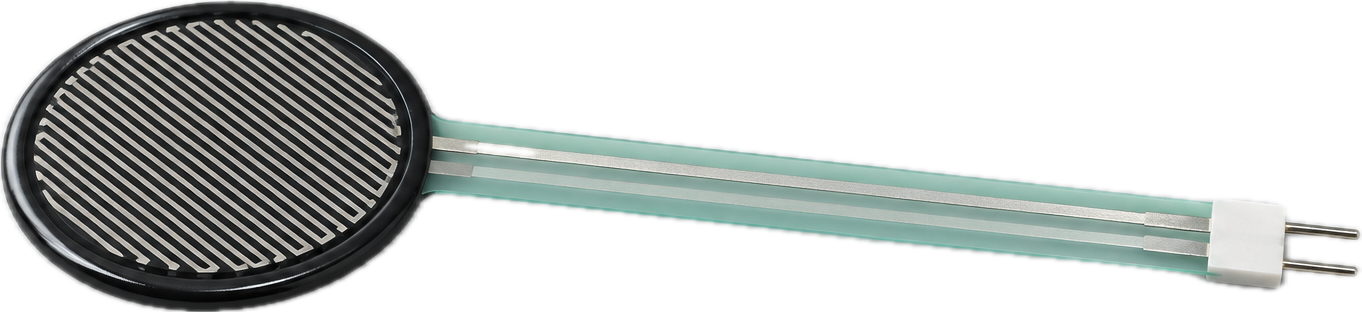
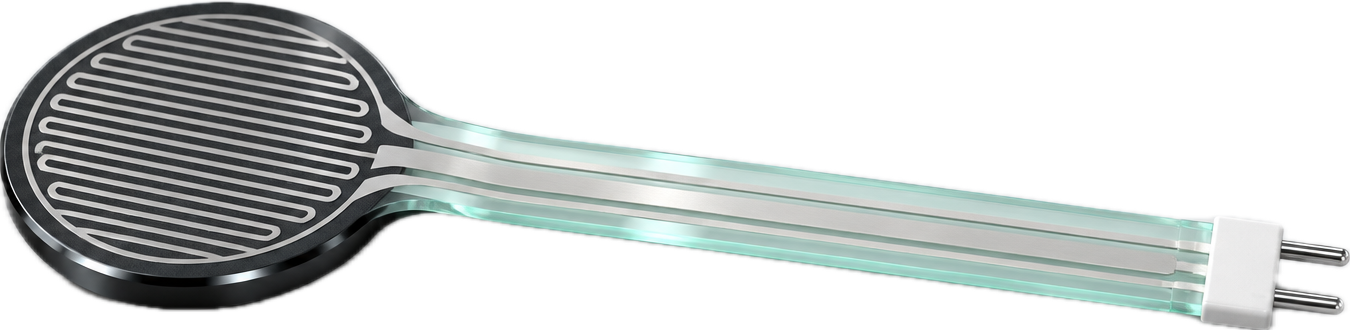
FSR: high-end 3D render (thick pad, glass tail, chrome pins), used everywhere

diff --git a/src/shoes/sketch-sensor.js b/src/shoes/sketch-sensor.js
@@ -12,12 +12,12 @@ export const sketchSensor = {
 
   // About the render image, measured from it (only change these for a new image):
   render: {
-    image: fsrRender,
-    padWidth: 0.336, // the round pad's width, as a share of the image's width
-    padCentre: [0.17, 0.5], // where the pad's centre is in the image (share of width, height)
-    viewFlatten: 0.67, // how squashed the round pad looks in the image (1 = seen from straight above)
-    slope: 3.9, // degrees the tail runs downhill to the right in the image
-    tailWidth: 0.24, // the tail's width for the pocket channel, as a share of the pad's width
+    image: fsrRender, // the high-end 3D render (the earlier one is src/assets/fsr-render-v1.png)
+    padWidth: 0.32, // the round pad's width, as a share of the image's width
+    padCentre: [0.161, 0.47], // where the pad's centre is in the image (share of width, height)
+    viewFlatten: 0.66, // how squashed the round pad looks in the image (1 = seen from straight above)
+    slope: 4.9, // degrees the tail runs downhill to the right in the image
+    tailWidth: 0.3, // the tail's width (it's thicker now) for the pocket channel, as a share of the pad's width
   },
 
   along: 0.5, // where it sits from toe (0) to heel (1) — the middle of the sole

diff --git a/docs/changelog.md b/docs/changelog.md
@@ -2,6 +2,16 @@
 
 One short entry per work session, newest first.
 
+## 2026-11-10: FSR as a high-end 3D render
+- **A new FSR render** in the style of your references (studio product renders, exploded electronics):
+  - a **thick, bevelled glossy black pad** with crisp, high-definition silver electrode lines and a fine texture
+  - a **clear, glass-like tail** with real thickness, light refraction and silver traces inside
+  - a white tab with **chrome pins**
+- **Used everywhere:** in the shoe's pocket, while lifting out, and big in the center of the next scene.
+- The previous render is kept as `src/assets/fsr-render-v1.png`.
+- **AI image:** Figma AI (gpt-image-2.5-flare, Graft team, 1 credit, 1536×864). Prompt: "Ultra high-end 3D product render, Octane/KeyShot quality, of a single round force-sensing resistor (FSR) lying flat… thick circular sensor pad (about 3mm) with a softly bevelled glossy black edge… crisp, high-definition interdigitated electrode lines in polished silver on matte black, with a fine tactile micro-texture… long flexible tail of thick, polished, crystal-clear transparent film with a faint mint tint, real thickness and clean light refractions… two brushed-and-polished silver conductive traces… small matte white connector tab with two shiny chrome pins… pale light-gray seamless studio background, soft diffused overhead lighting… camera about 20° above, pad on the LEFT, tail to the RIGHT… no text, no logo." Cut out with Apple's subject lift.
+- The stall check (`npm run debug:stalls`) still shows no slow frames.
+
 ## 2026-11-10: fixed the first-scroll stall
 **The bug:** on the first scroll down, after the first label, nothing seemed to happen for a while, then the page jumped to the big FSR.
 

diff --git a/docs/architecture.md b/docs/architecture.md
@@ -95,7 +95,8 @@ AI was used **once, while building**, to create the shoe images:
 | Photo shoe (`shoe-photo.png`) | Figma AI image tool (model: gpt-image-2.5-flare), in the Figma file "Magic Shoes – assets", Graft team | [changelog.md](changelog.md), 2026-11-09 entry | 1 Figma AI credit, one time |
 | Sketch shoe (`shoe-sketch.png`) | same | same | 1 credit, one time |
 | 5-part exploded drawing (`sketch-parts/`, set aside) | same | same | 1 credit, one time |
-| FSR render (`fsr-render.png`) | same | [changelog.md](changelog.md), 2026-11-10 entry | 1 credit, one time |
+| FSR render, first version (`fsr-render-v1.png`, not used) | same | [changelog.md](changelog.md), 2026-11-10 "FSR as a 3D render" | 1 credit, one time |
+| FSR high-end 3D render (`fsr-render.png`) | same | [changelog.md](changelog.md), 2026-11-10 "FSR as a high-end 3D render" | 1 credit, one time |
 
 Backgrounds were removed from the images with Apple's built-in "lift subject" feature on the Mac (free, no internet).
 

diff --git a/docs/how-to-change-things.md b/docs/how-to-change-things.md
@@ -117,7 +117,7 @@ Flowers near the middle fade out on their own, so the shoe always keeps its clea
 - `src/shoes/sketch-sole.js`: the gray sole layer.
 - `src/shoes/sketch-midsole.js`: the white midsole layer.
 - `src/shoes/sketch-sensor.js`: the FSR on the white midsole (look, position, size, pocket).
-- `src/assets/fsr-render.png`: the 3D render of the FSR (made with Figma AI, then cut out).
+- `src/assets/fsr-render.png`: the high-end 3D render of the FSR (made with Figma AI, then cut out), used in the shoe and in chapter 2. The earlier render is `fsr-render-v1.png`. To switch back, import it in `sketch-sensor.js` and restore its measurements (in git history).
 - `src/shoes/sketch-labels.js`: the **part labels**: title, description, where the text sits and where the arrow points. Edit the wording here.
 - `src/components/part-labels.js` and `.css`: how the labels and arrows are drawn (fonts, sizes, arrow style).
 - `src/components/sensor-drawing.js`: how the sensor is drawn (careful).
